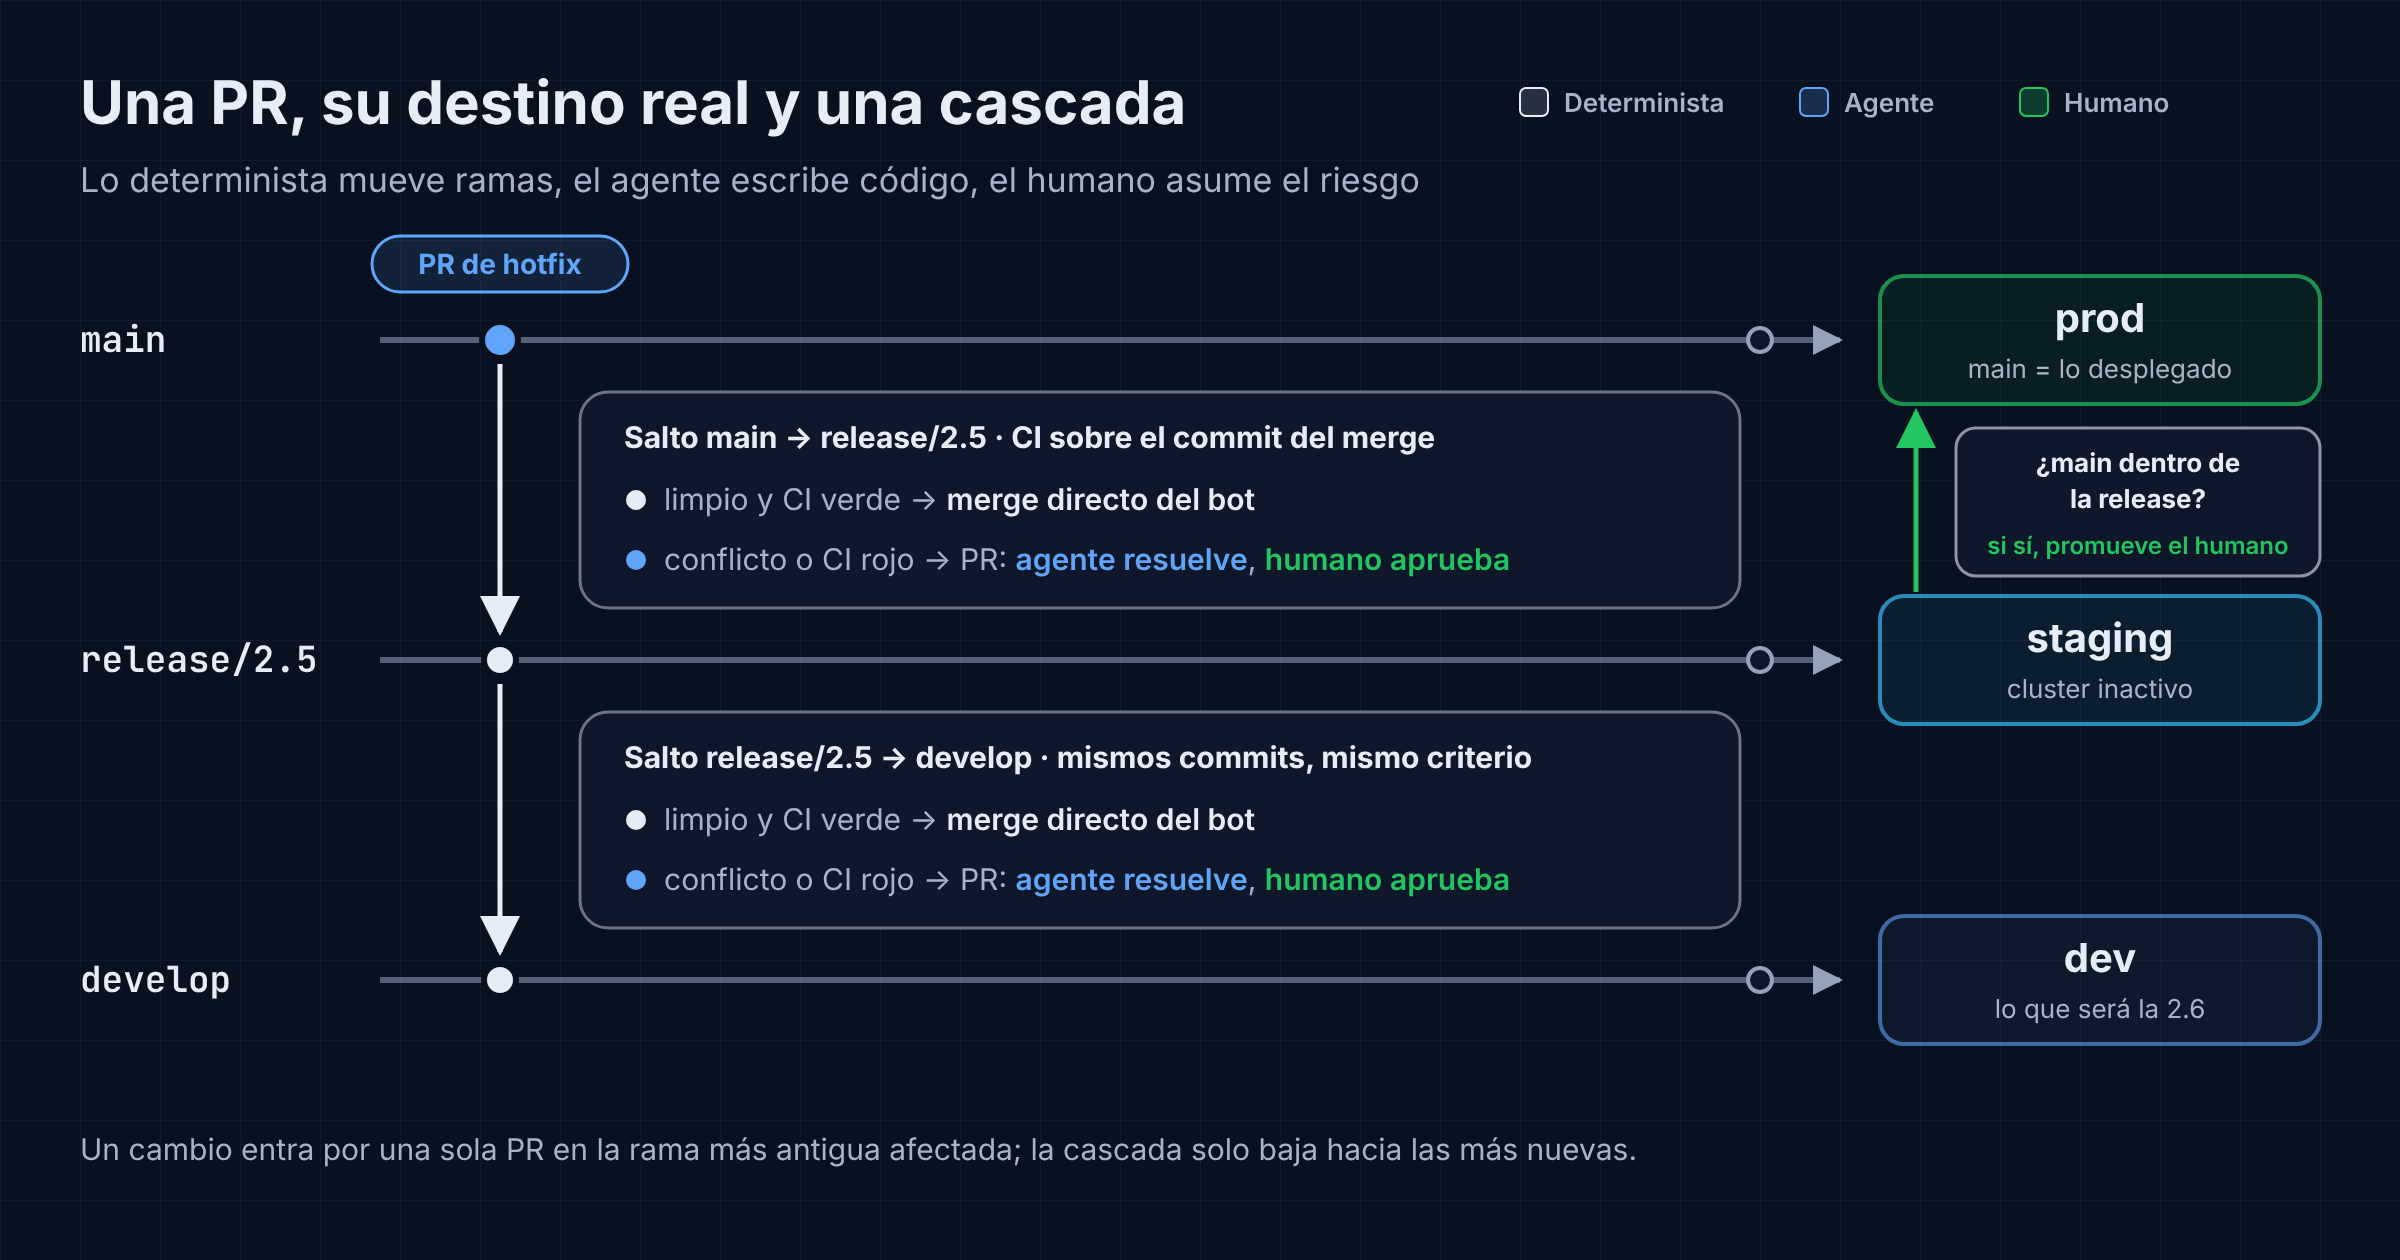
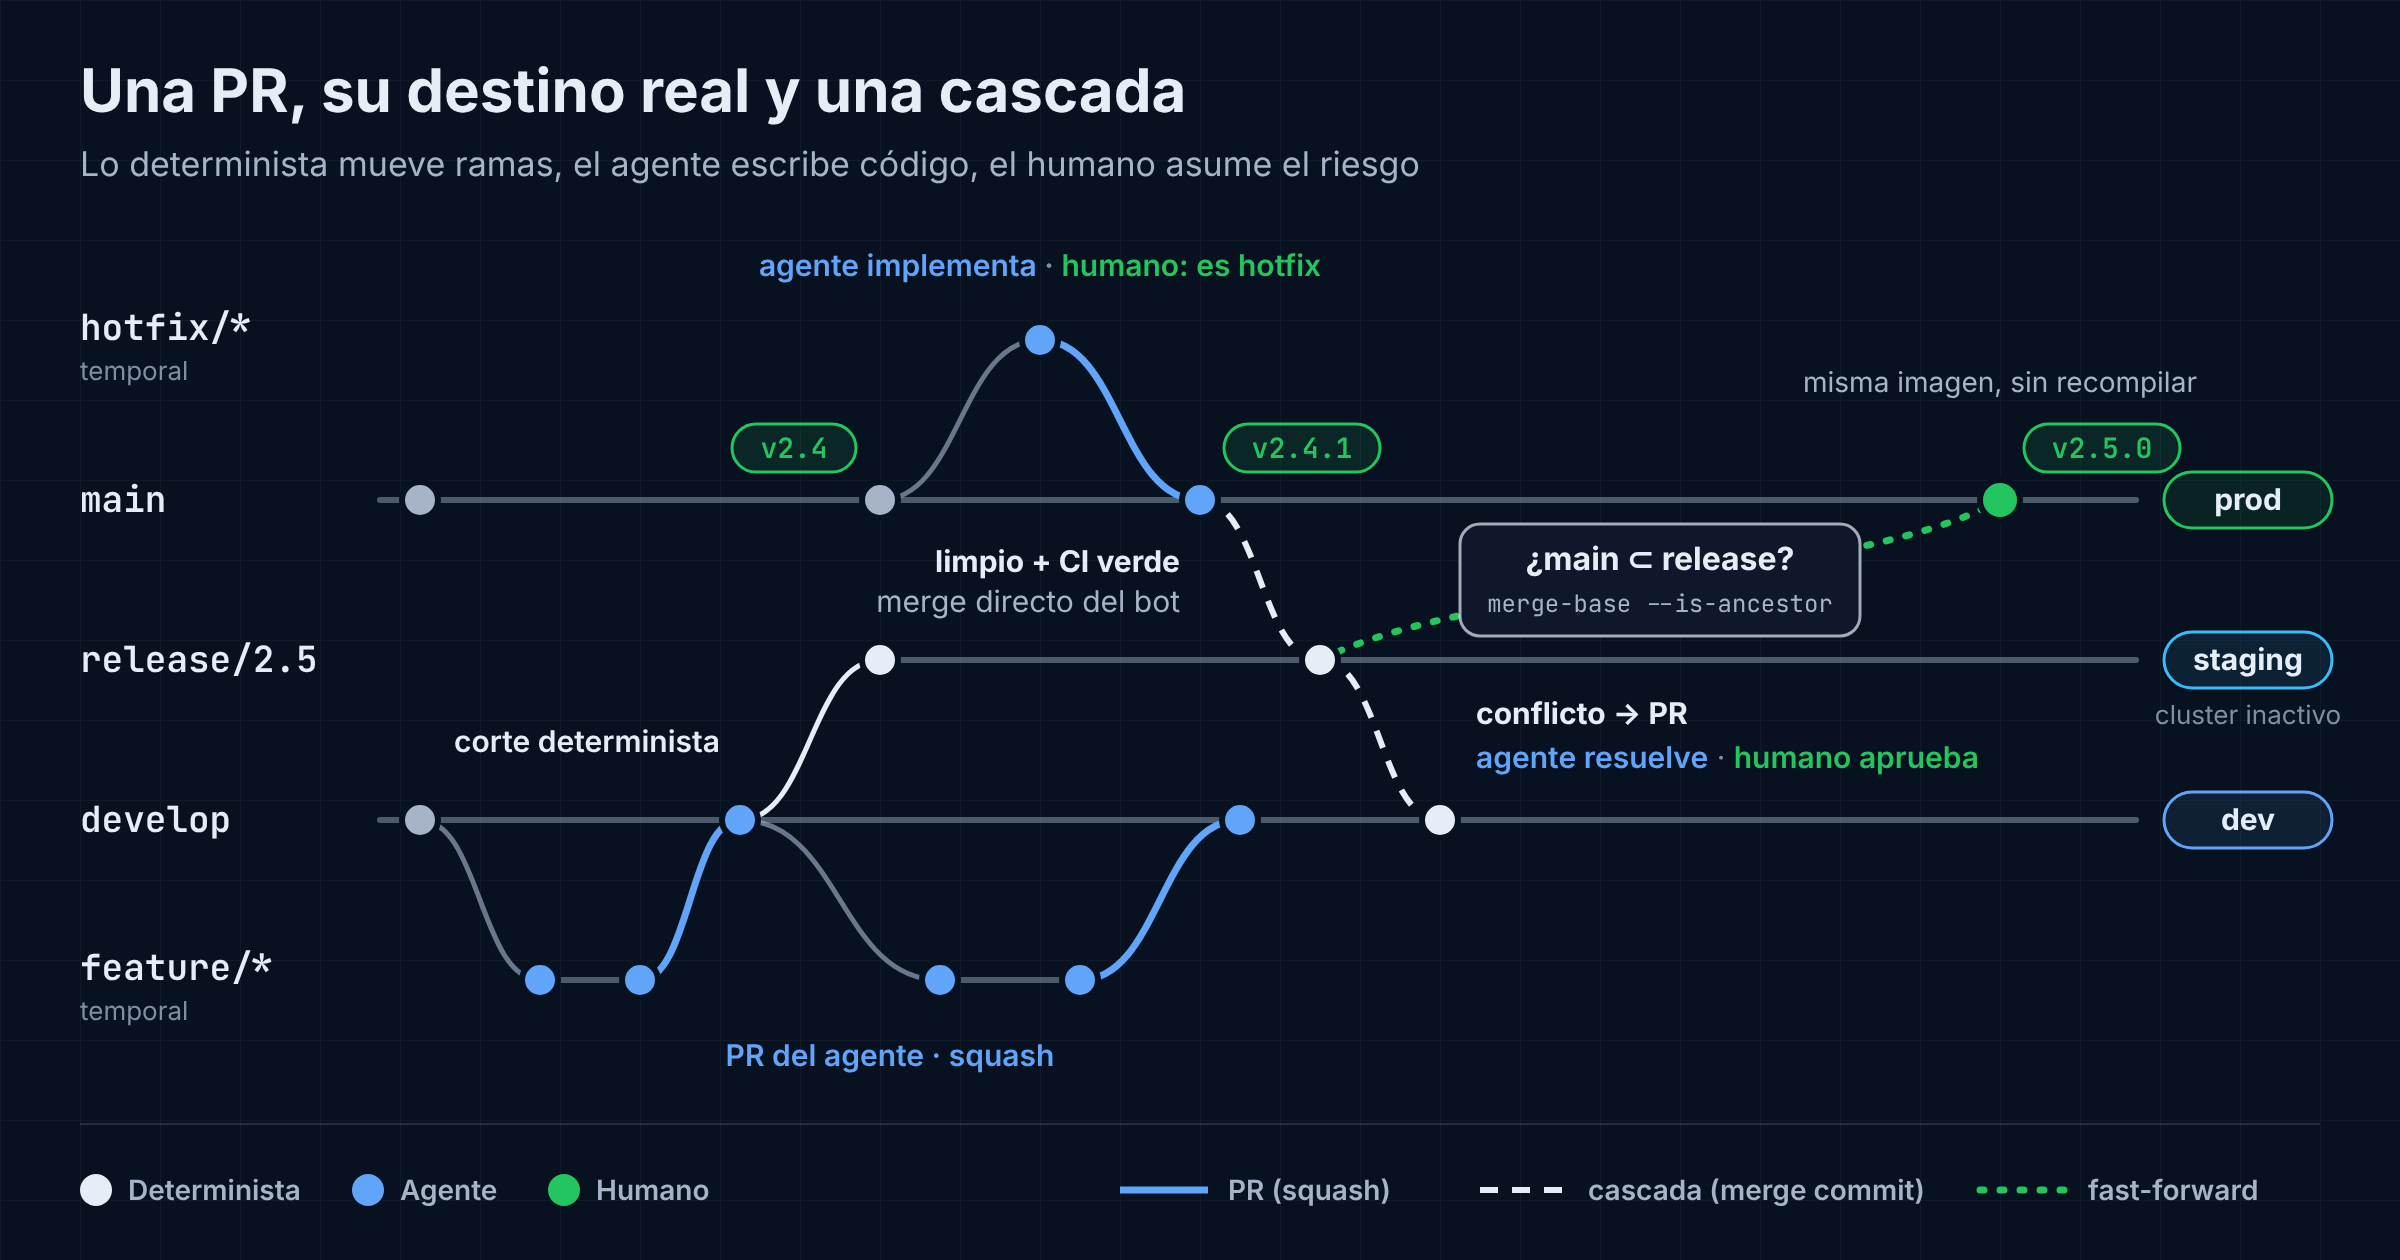
fix(blog): diagrama estilo GitFlow en git-workflow-agentes-ia
Carriles por rama, features, corte de release, hotfix, cascada en sus dos
variantes, puerta de promoción y fast-forward, con leyenda de roles y de
tipos de línea.

Claude-Session: https://claude.ai/code/session_011KkYqsECNZ9WWTD2V7J4B8

diff --git a/blog/posts/git-workflow-agentes-ia.html b/blog/posts/git-workflow-agentes-ia.html
@@ -85,7 +85,7 @@
 
         <article class="card rounded-xl p-6 md:p-8 mb-8" data-reveal>
             <figure class="mb-8" data-reveal>
-                <img src="../assets/git-workflow-agentes-ia.svg" alt="Tres ramas en horizontal con su entorno: develop en dev, release 2.5 en staging y main en producción. Un hotfix entra en main y una cascada lo lleva a la release y después a develop. En cada salto, si el merge es limpio y el CI sale verde, el bot mergea directo; si hay conflicto o CI rojo, se abre una PR, el agente resuelve y un humano aprueba. Antes de producción, una puerta comprueba que main está contenido en la release" class="w-full rounded-xl border border-blue-400/20 bg-slate-950/40">
+                <img src="../assets/git-workflow-agentes-ia.svg" alt="Diagrama de ramas con el tiempo de izquierda a derecha: hotfix, main en producción, release 2.5 en staging, develop en dev y features. Dos features vuelven a develop por PR del agente con squash y se corta release 2.5 desde develop. Un hotfix que implementa el agente y clasifica un humano entra en main con el tag v2.4.1. La cascada lleva main a la release con merge directo del bot, porque es limpio y el CI sale verde, y la release a develop por PR, porque hay conflicto: el agente resuelve y el humano aprueba. Una puerta comprueba que main está contenido en la release y main avanza por fast-forward con el tag v2.5.0, la misma imagen sin recompilar" class="w-full rounded-xl border border-blue-400/20 bg-slate-950/40">
             </figure>
 
             <div class="principle-grid mb-8" data-reveal>
